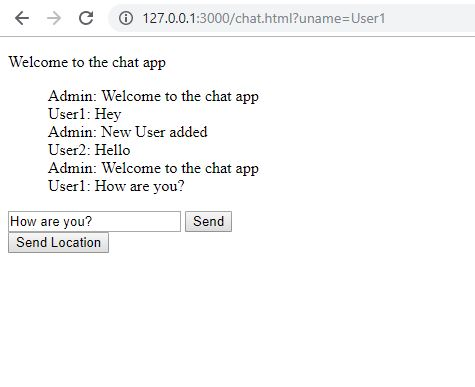
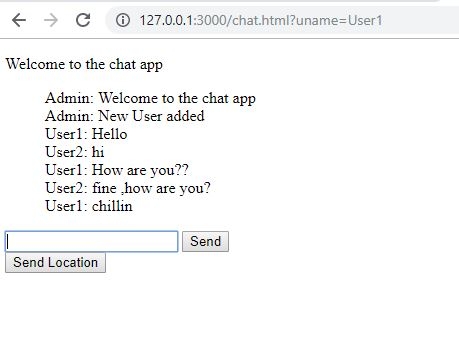
Update

Changed region(s): [[0.0, 0.0, 1.0, 0.766]]

diff --git a/public/chat.html b/public/chat.html
@@ -5,6 +5,7 @@
     <title>Chat App</title>
     <style media="screen">
     </style>
+    
   </head>
   <body>
     <p>Welcome to the chat app</p>
@@ -12,7 +13,7 @@
     <ol style = "list-style-type : none" id = "messages"></ol>
 
     <form id="message-form">
-      <input type="text" name="message"/>
+      <input type="text" name="message" id="textfield1"/>
       <button type="submit" name="button">Send</button>
     </form>
 
@@ -20,5 +21,8 @@
     <script src = "/socket.io/socket.io.js"></script>
     <script src = "/js/Libs/jquery.js"></script>
     <script src = "/js/index.js"> </script>
+    <script type="text/javascript">
+      
+    </script>
   </body>
 </html>

diff --git a/public/js/index.js b/public/js/index.js
@@ -23,7 +23,6 @@ socket.on('createMessage' ,(message) => {
 });
 
 jQuery('#message-form').on('submit' , function(e){
-  e.preventDefault();
 
   socket.emit('createMessage' ,message = {
     from : new URL(window.location.href).searchParams.get('uname'),
@@ -31,6 +30,8 @@ jQuery('#message-form').on('submit' , function(e){
   } ,function(){
 
   });
+  $('#textfield1').val('');
+  e.preventDefault();
 });
 
 var locationButton = jQuery('#send-location');

diff --git a/server/server.js b/server/server.js
@@ -19,8 +19,7 @@ app.use(express.static(publicPath));
 
   socket.broadcast.emit('createMessage' , generateMessage('Admin' , 'New User added'));
 
-  socket.once('createMessage', (message,callback) => {
-    console.log(`createMessage : ${message}`);
+  socket.on('createMessage', (message,callback) => {
     io.emit('newMessage' , generateMessage(message.from , message.text));
     callback('This is from server');
   });
